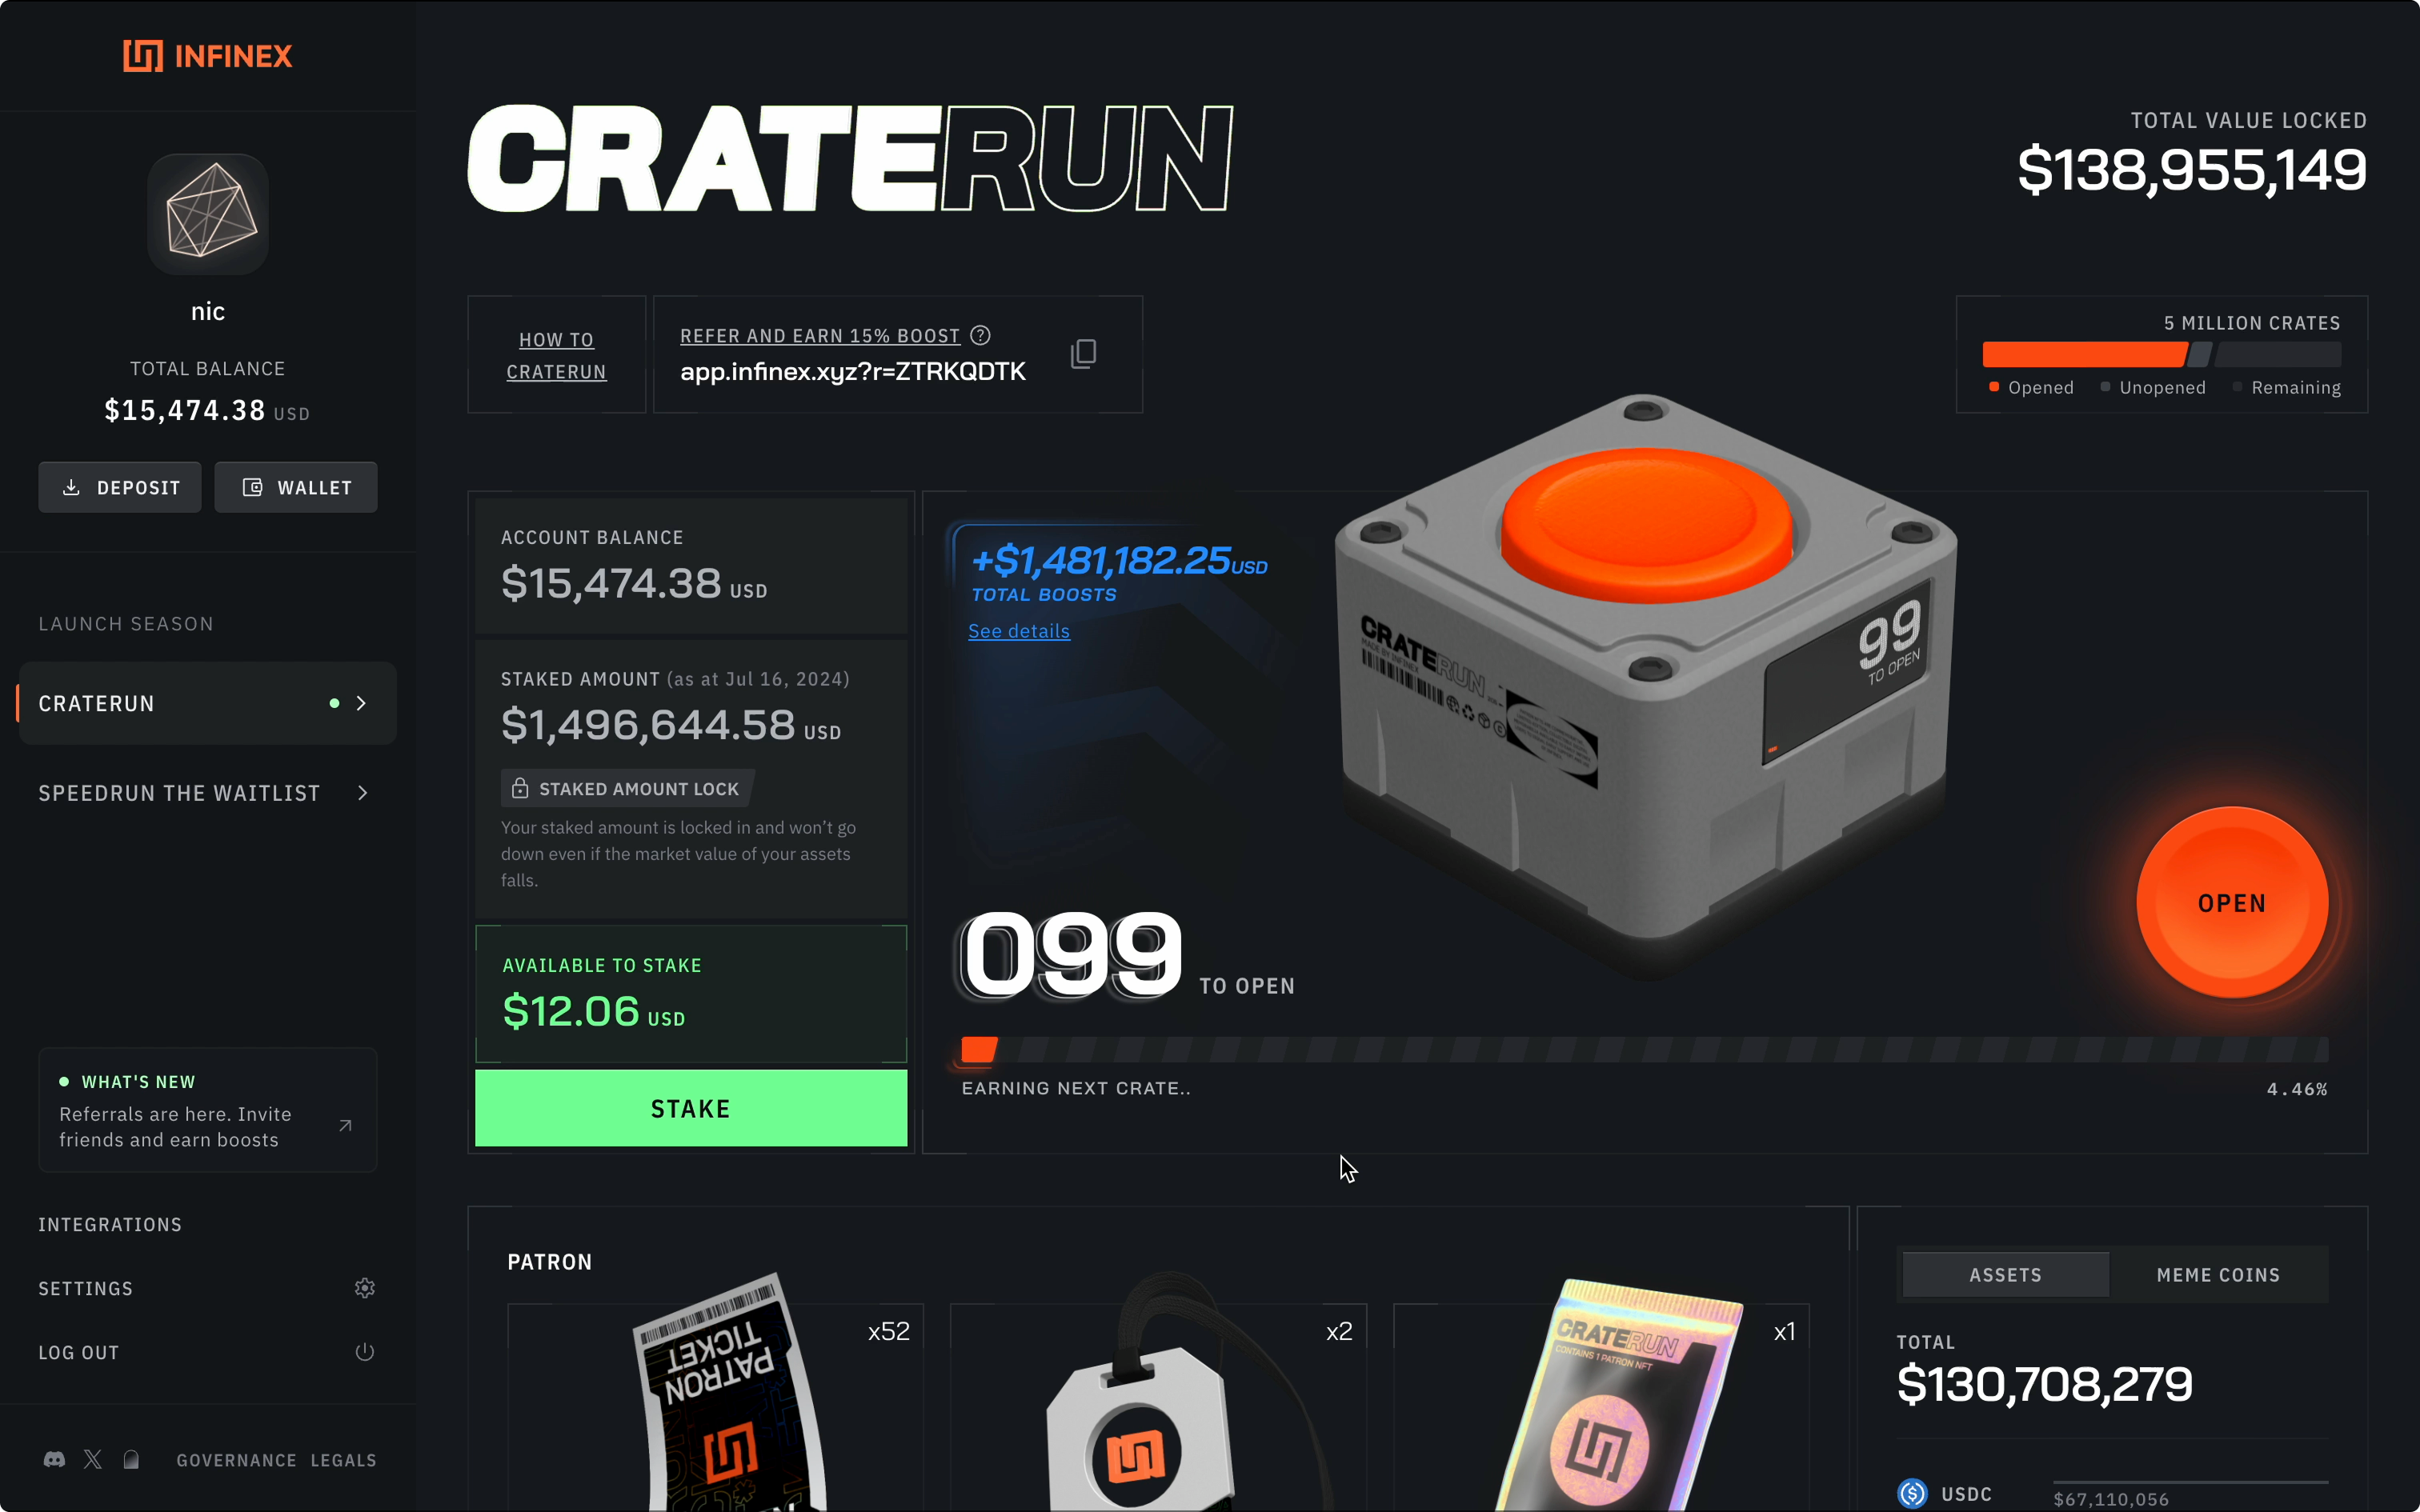
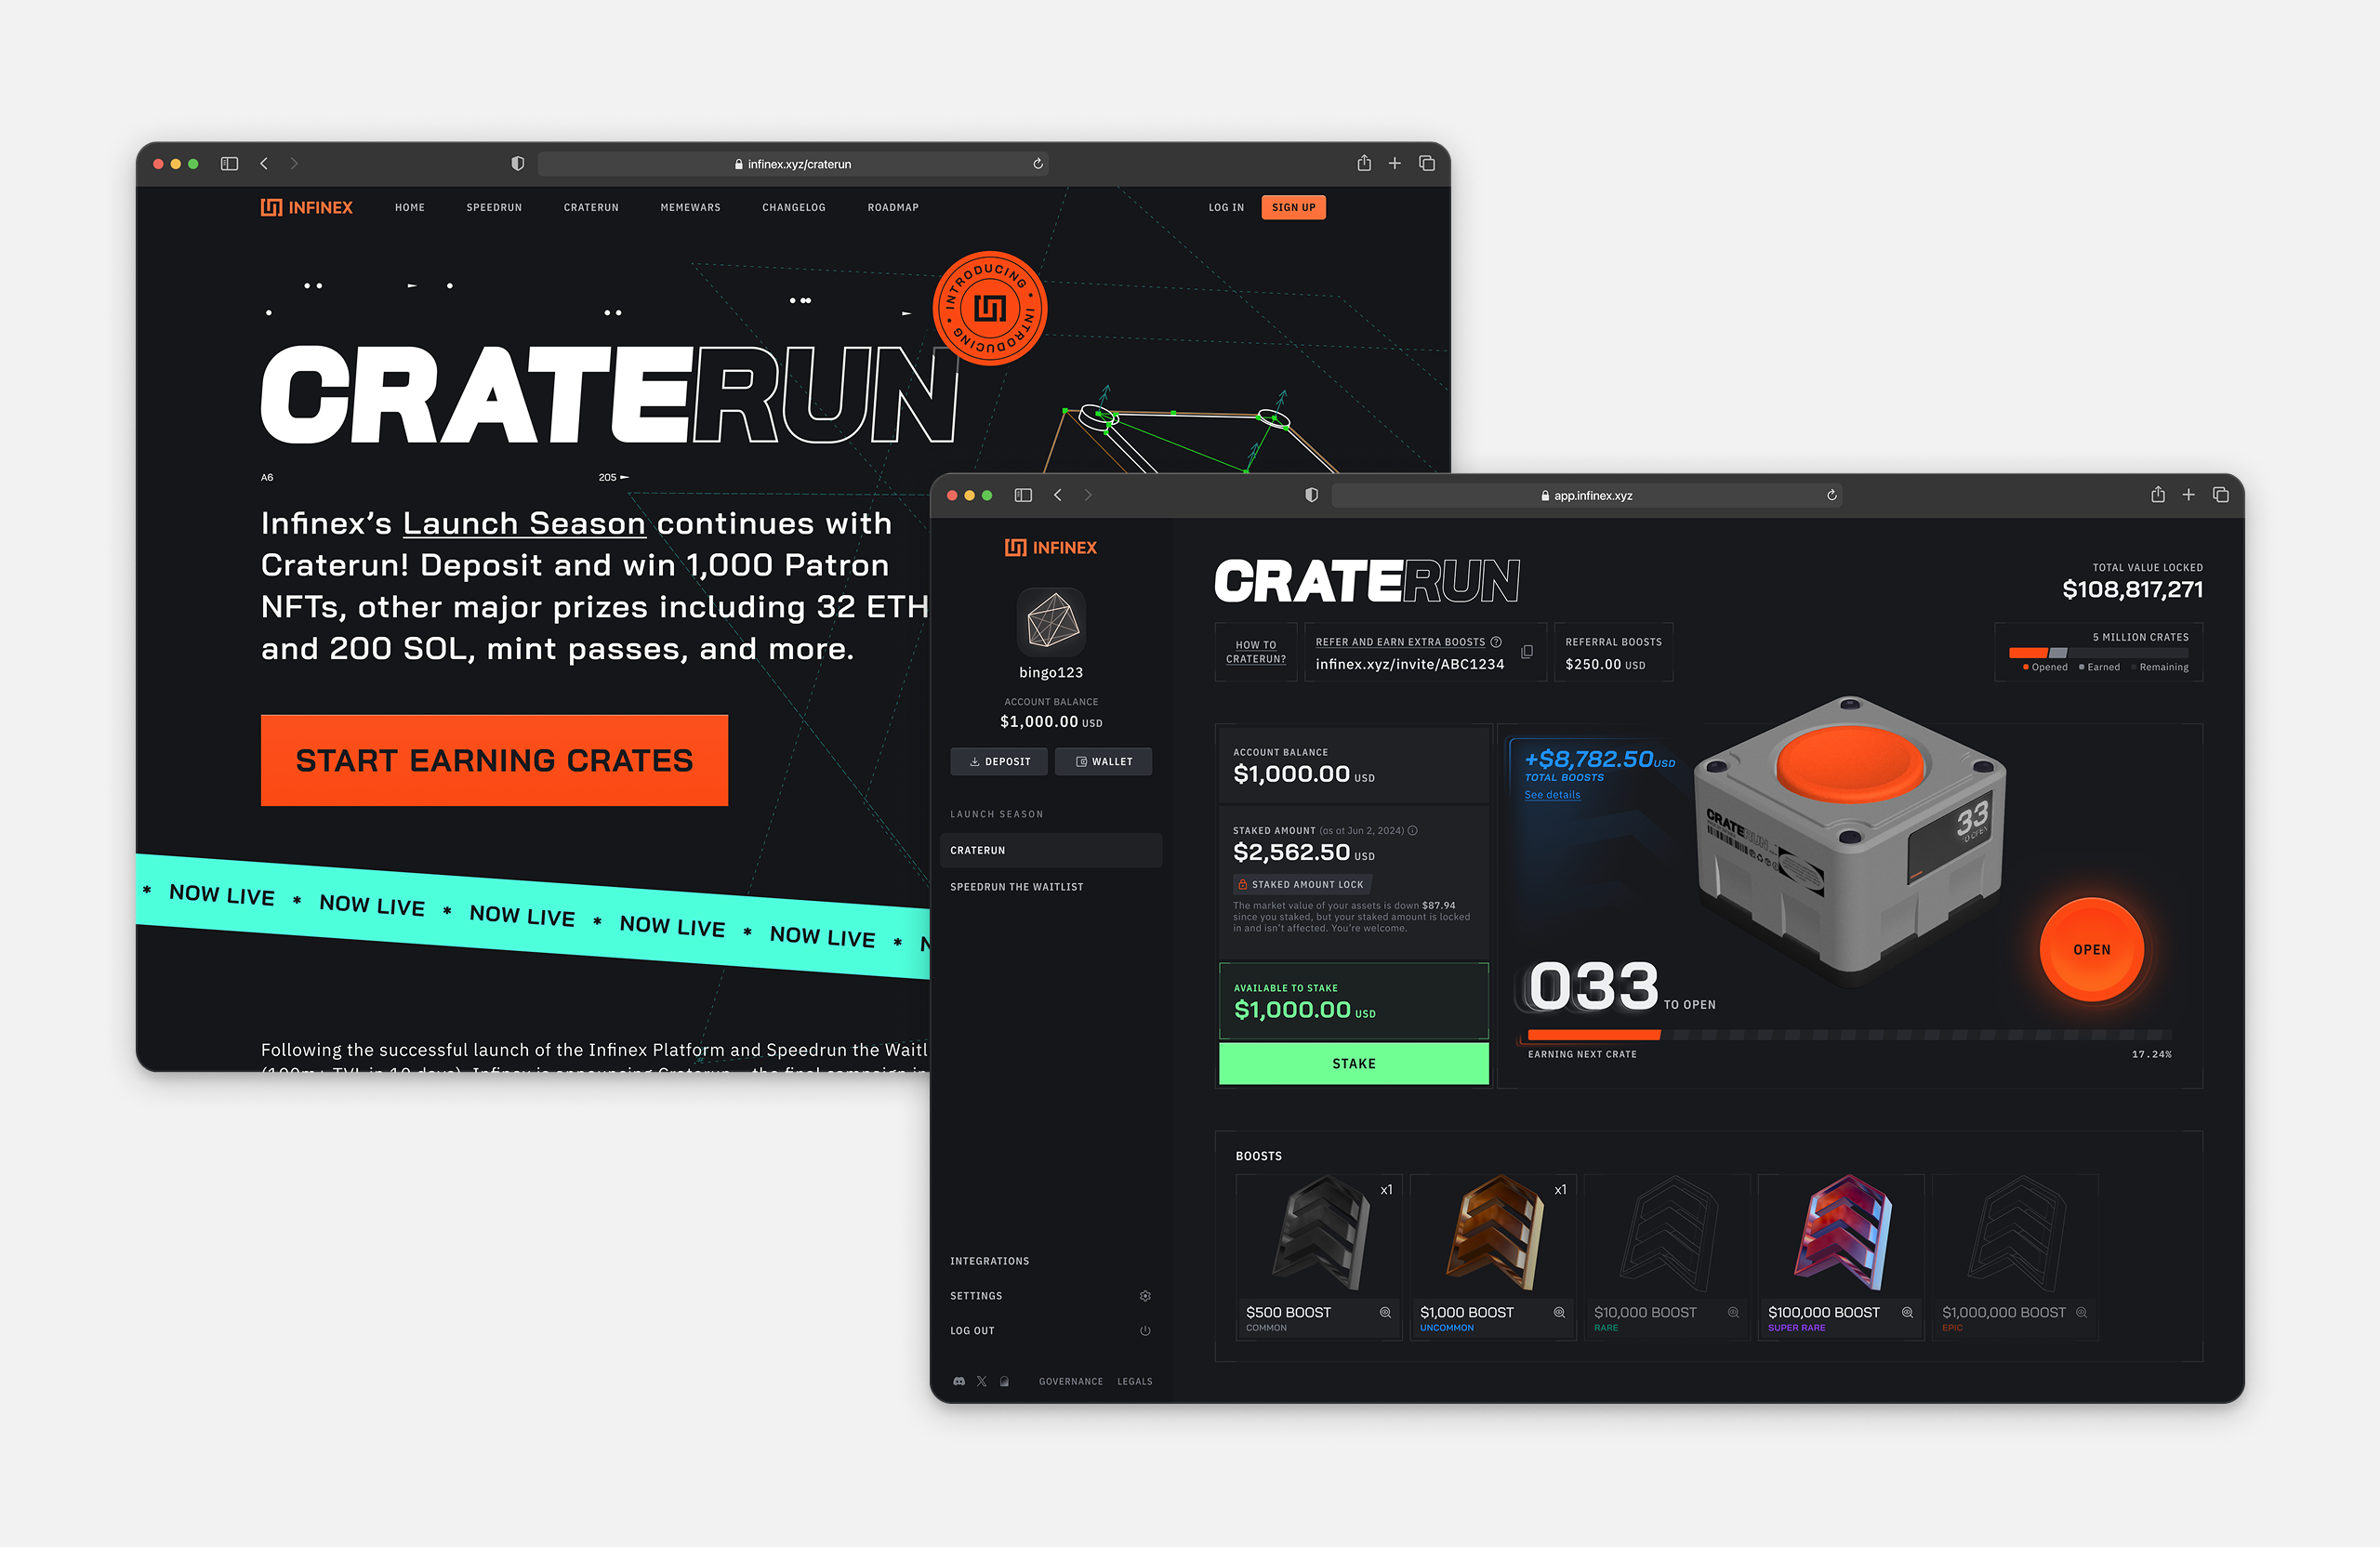
improving portfolio content

diff --git a/sass/poole.scss b/sass/poole.scss
@@ -166,7 +166,7 @@ img {
 
 .post-page {
   min-height: 100vh;
-  padding: 64px 24px 80px;
+  padding: 80px 24px 80px;
 }
 
 .back-btn {

diff --git a/content/design/Bullrun/index.md b/content/design/Bullrun/index.md
@@ -2,11 +2,11 @@
 title = "Bullrun"
 date = 2026-05-11
 weight = 2
-description = "A fantasy football inspired crypto game"
+description = "A fantasy football inspired trading card game"
 template = "page.html"
 [extra]
 headerimage = "/design/Bullrun/og-image.png"
-tags = ["Pico8", "PicoCAD", "Modelling"]
+tags = []
 +++
 
 ## Overview
@@ -15,10 +15,20 @@ During a period when the crypto zeitgeist was focused on on-chain gaming, we des
 {{ video(src="bullrun-ui-recording.mp4") }}
 
 ## Process  
-### A game engine, built on web technology
-The process of creating Bullrun involved significant challenges relating to the experience of the 
 
-### From mechanics to a game  
+### The lowest fidelity prototypes
+In the initial ideating stages of Bullrun, we had an idea for how the mechanics could work, but needed to test whether they actually translated into a fun game. We testing the mechanics by building out the most basic form of the game in a spreadsheet and playing it internally within the team. This validated very early on that the core of the game was appealing, giving us confidence going into the more complete design and build process. 
+
+### An evolution of the Infinex Brand
+The new bullrun sub-brand needed to feel both a part of the Infinex identity, but also more like a game than the functional screens and brand materials that composed the existing app. As part of this branding effort I took inspiration from sports games and trading cards, bringing together Infinex's modern, techy identity with the trading card theme of the game itself.
+
+### Designing for web constraints
+It was essential that the design, dev, and release cycle for the first version of Bullrun was fast (only a month and a half!) to capture the fleeting attention cycle that was focused on crypto gaming. To enable this we built the game on traditional web technology, leveraging infinex's existing tech stack, rather than in a game engine, which gave us less flexibility in both the functionality and visual effects. Despite this, we managed to create a game-like feel through a carefully considered information architecture, brand, and animation. 
+
+
+<img class="xlimagewithinpost" src="/design/Bullrun/game-screens.png" alt="Game Screens">
+<img class="xlimagewithinpost" src="/design/Bullrun/cards.png" alt="Card Designs">
+<img class="xlimagewithinpost" src="/design/Bullrun/mobile-screens.png" alt="Mobile Screens">
 
 # Outcome
 The release of bullrun was a success, bringing the Infinex app to the forefront of user's minds during a quiet period in the crypto market. At it's peak, the game reached 15,000 daily active players, representing the largest spike in the Infinex's user and activity growth that had been seen thus far in the project's lifetime. The game continued to be updated for several months after it's release with new additions to the mechanics, keeping it a fresh play experience.

diff --git a/content/design/Craterun/index.md b/content/design/Craterun/index.md
@@ -16,11 +16,11 @@ Infinex had a great product, but was struggling to get attention from the broade
 
 ## Process
 ### Starting with mechanics
+Over two months we turned Craterun from a rough idea into a rich interactive experience. I began by hashing out the structure of the incentives with the team in whiteboarding sessions. This was essential, as no matter how nice the experience of engaging with the campaign was, it could all collapse on the numbers not 'feeing right' for users. 
 
-Over two months we turned Craterun from the scratchings of an idea into a rich interactive experience. I began by hashing out the structure of the incentives with the team in whiteboarding sessions. This was essential, as no matter how nice the experience of engaging with the campaign was, it could all collapse on the numbers not 'feeing right' for users. I looked carefully at what had worked in other successful incentive schemes not just from crypto, but from wider fintech and other industries. From there, I created low-fidelity demos for testing just the campaign structure itself.
+I looked carefully at what had worked in other successful incentive schemes not just from crypto, but from wider fintech and other industries. From there, I created low-fidelity demos for testing just the campaign structure itself within an internal team test.
 
 ### From mechanics to a game
-
 Once the team was confident the mechanics felt strong, I dived into IA, brand and UI. I chose to lean heavily into stylised 3D rendering, which was a lot of work in asset creation, but ended up being key in the campaign standing out among many other crypto campaigns. The success of this can be seen in the community reception, where visual elements from the campaign became memes that were referenced regularly long after the campaign was over.
 
 <img class="xlimagewithinpost" src="/design/Craterun/brand-moodboard.png" alt="Brand moodboard">